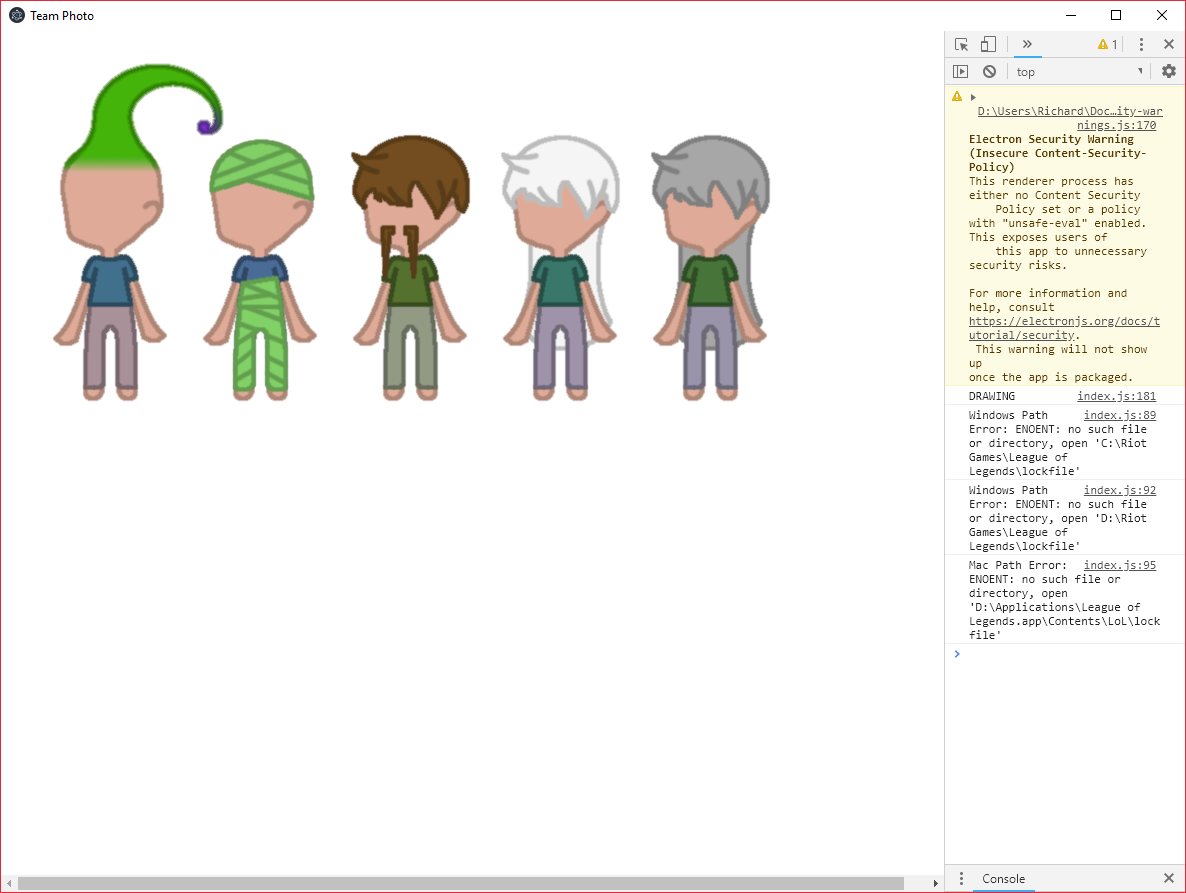
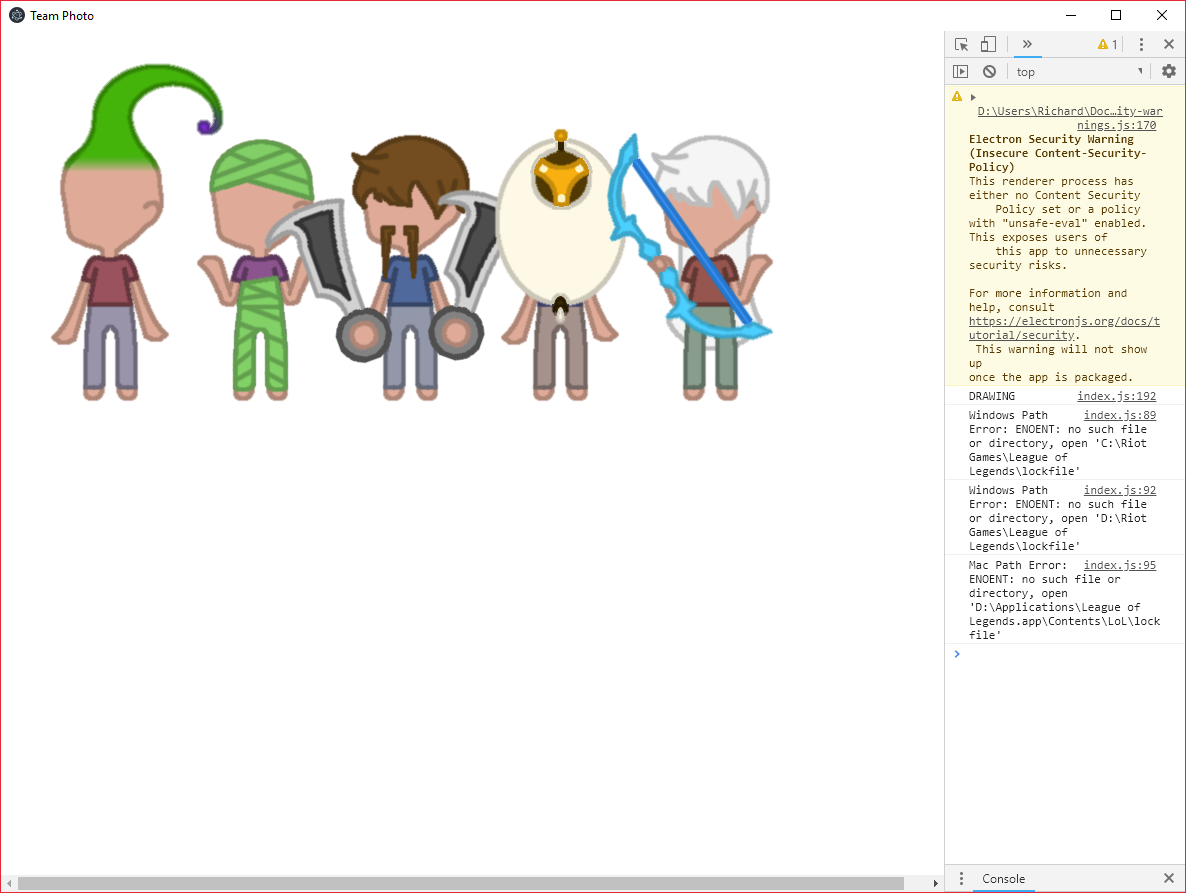
Add bent/shrugging arms
And improve how we do positioning of objects held in the hands.

Changed region(s): [[0.0312, 0.1512, 0.6551, 0.4535]]

diff --git a/electronApp/index.js b/electronApp/index.js
@@ -155,11 +155,14 @@ var longHairImage;
 var shirtImage;
 var leftSleeveImage;
 var leftArmImage;
+var leftArmBentImage;
 var rightSleeveImage;
 var rightArmImage;
+var rightArmBentImage;
 var pantsImage;
 var leftFootImage;
 var rightFootImage;
+var armData;
 
 function prepareImages() {
     headImage = document.getElementById("headImage");
@@ -168,11 +171,19 @@ function prepareImages() {
     shirtImage = document.getElementById("shirtImage");
     leftSleeveImage = document.getElementById("leftSleeveImage");
     leftArmImage = document.getElementById("leftArmImage");
+    leftArmBentImage = document.getElementById("leftArmBentImage");
     rightSleeveImage = document.getElementById("rightSleeveImage");
     rightArmImage = document.getElementById("rightArmImage");
+    rightArmBentImage = document.getElementById("rightArmBentImage");
     pantsImage = document.getElementById("pantsImage");
     leftFootImage = document.getElementById("leftFootImage");
     rightFootImage = document.getElementById("rightFootImage");
+    
+    armData = {"rightArmStraight": {"image": rightArmImage, "translationX": -30, "translationY": 22, "handX": 14, "handY": 60},
+               "leftArmStraight": {"image": leftArmImage, "translationX": 7, "translationY": 20, "handX": 32, "handY": 60},
+               "rightArmBent": {"image": rightArmBentImage, "translationX": -34, "translationY": 0, "handX": 14, "handY": 10, "rotation": 0},
+               "leftArmBent": {"image": leftArmBentImage, "translationX": 7, "translationY": 0, "handX": 35, "handY": 10, "rotation": 0}};
+    
     // uncomment this line to draw right away, instead of waiting for the end game stats to be ready
     draw();
 }
@@ -268,6 +279,26 @@ function drawAddOn(context, addOnDetails) {
     context.restore();
 }
 
+function drawArmAddOn(context, armType, addOnDetails) {
+    armDetails = armData[armType];
+    if (!addOnDetails || !armDetails) {
+        return;
+    }
+    
+    context.save();
+    context.translate(armDetails.handX, armDetails.handY);
+    if (armDetails.rotation) {
+        context.rotate(armDetails.rotation * Math.PI / 180);
+    }
+    context.translate(-addOnDetails.handX, -addOnDetails.handY);
+    if (addOnDetails.drawAsHair) {
+        drawHairWithColor(context, document.getElementById(addOnDetails.id), addOnDetails.hair);
+    } else {
+        context.drawImage(document.getElementById(addOnDetails.id), 0, 0);
+    }
+    context.restore();
+}
+
 function drawCharacter(context, championId) {
     context.save();
     var champion = championData[championId];
@@ -287,7 +318,7 @@ function drawCharacter(context, championId) {
     
     context.drawImage(headImage, 0, 0);
     drawHair(context, hairColor);
-    drawBody(context, champion);
+    drawBody(context, champion, championId);
     if (champion) {
         drawAddOn(context, champion.addOnAfterHead);
     }
@@ -314,62 +345,72 @@ function drawHair(context, hairColor) {
     context.restore();
 }
 
-function drawBody(context, champion) {
+function drawBody(context, champion, championId) {
     context.save();
     context.translate(27, headImage.height - 14);
     var hueRotationDegrees = Math.floor(Math.random() * 360);
     drawPants(context, champion);
-    drawRightSleeve(context, hueRotationDegrees, champion, false);
-    drawLeftSleeve(context, hueRotationDegrees, champion, false);
+    drawRightSleeve(context, hueRotationDegrees, champion, championId, false);
+    drawLeftSleeve(context, hueRotationDegrees, champion, championId, false);
     drawImageWithHueRotation(context, shirtImage, hueRotationDegrees);
     if (champion) {
         drawAddOn(context, champion.addOnAfterShirt);
     }
-    drawRightSleeve(context, hueRotationDegrees, champion, true);
-    drawLeftSleeve(context, hueRotationDegrees, champion, true);
+    drawRightSleeve(context, hueRotationDegrees, champion, championId, true);
+    drawLeftSleeve(context, hueRotationDegrees, champion, championId, true);
     context.restore();
 }
 
-function drawRightSleeve(context, hueRotationDegrees, champion, drawAddOns) {
+function drawRightSleeve(context, hueRotationDegrees, champion, championId, drawAddOns) {
     context.save();
     context.translate(-6, 1);
-    drawRightArm(context, champion, drawAddOns);
+    armType = "rightArmStraight";
+    if (championId < 100) {
+        // TODO: replace with an actual condition
+        armType = "rightArmBent";
+    }
+    drawRightArm(context, champion, armType, drawAddOns);
     if (!drawAddOns) {
         drawImageWithHueRotation(context, rightSleeveImage, hueRotationDegrees);
     }
     context.restore();
 }
 
-function drawRightArm(context, champion, drawAddOns) {
+function drawRightArm(context, champion, armType, drawAddOns) {
     context.save();
-    context.translate(-(rightArmImage.width - 18), rightSleeveImage.height - 8);
+    context.translate(armData[armType].translationX, armData[armType].translationY);
     if (!drawAddOns) {
-        context.drawImage(rightArmImage, 0, 0);
+        context.drawImage(armData[armType].image, 0, 0);
     }
     if (champion && drawAddOns) {
-        drawAddOn(context, champion.addOnAfterRightArm);
+        drawArmAddOn(context, armType, champion.addOnAfterRightArm);
     }
     context.restore();
 }
 
-function drawLeftSleeve(context, hueRotationDegrees, champion, drawAddOns) {
+function drawLeftSleeve(context, hueRotationDegrees, champion, championId, drawAddOns) {
     context.save();
     context.translate(shirtImage.width - 17, 0);
-    drawLeftArm(context, champion, drawAddOns);
+    armType = "leftArmStraight";
+    if (championId < 100) {
+        // TODO: replace with an actual condition
+        armType = "leftArmBent";
+    }
+    drawLeftArm(context, champion, armType, drawAddOns);
     if (!drawAddOns) {
         drawImageWithHueRotation(context, leftSleeveImage, hueRotationDegrees);
     }
     context.restore();
 }
 
-function drawLeftArm(context, champion, drawAddOns) {
+function drawLeftArm(context, champion, armType, drawAddOns) {
     context.save();
-    context.translate(leftSleeveImage.width - 18, leftSleeveImage.height - 10);
+    context.translate(armData[armType].translationX, armData[armType].translationY);
     if (!drawAddOns) {
-        context.drawImage(leftArmImage, 0, 0);
+        context.drawImage(armData[armType].image, 0, 0);
     }
     if (champion && drawAddOns) {
-        drawAddOn(context, champion.addOnAfterLeftArm);
+        drawArmAddOn(context, armType, champion.addOnAfterLeftArm);
     }
     context.restore();
 }

diff --git a/electronApp/championData.js b/electronApp/championData.js
@@ -1,7 +1,7 @@
 const championData = {
     "32": /* Amumu */ {"hair": "none", "addOnAfterHead": {"id": "amumuHead", "translationX": -1, "translationY": -1}, "addOnAfterShirt": {"id": "amumuShirt", "translationX": -1, "translationY": 21}, "addOnAfterPants": {"id": "amumuPants", "translationX": -1, "translationY": 2}},
-    "22": /* Ashe */ {"hair": "white", "longHair": true, "addOnAfterRightArm": {"id": "asheRightHand", "translationX": -40, "translationY": -75}},
+    "22": /* Ashe */ {"hair": "white", "longHair": true, "addOnAfterRightArm": {"id": "asheRightHand", "handX": 54, "handY": 132}},
     "432": /* Bard */ {"hair": "none", "addOnAfterHead": {"id": "bardHead", "translationX": -15, "translationY": -31}},
-    "119": /* Draven */ {"hair": "brown", "longHair": false, "addOnAfterHead": {"id": "dravenHead", "translationX": 20, "translationY": 85, "drawAsHair": true, "hair": "brown"}, "addOnAfterRightArm": {"id": "dravenRightHand", "translationX": -85, "translationY": -85}, "addOnAfterLeftArm": {"id": "dravenLeftHand", "translationX": 0, "translationY": -85}},
+    "119": /* Draven */ {"hair": "brown", "longHair": false, "addOnAfterHead": {"id": "dravenHead", "translationX": 20, "translationY": 85, "drawAsHair": true, "hair": "brown"}, "addOnAfterRightArm": {"id": "dravenRightHand", "handX": 101, "handY": 140}, "addOnAfterLeftArm": {"id": "dravenLeftHand", "handX": 29, "handY": 145}},
     "141": /* Zac */ {"hair": "none", "expression": "none", "addOnAfterHead": {"id": "zacHead", "translationX": 1, "translationY": -76}},
 };

diff --git a/electronApp/index.html b/electronApp/index.html
@@ -12,7 +12,9 @@
     <img id="shirtImage" src="img/newShirt.png" hidden="true">
     <img id="leftSleeveImage" src="img/newLeftSleeve.png" hidden="true">
     <img id="leftArmImage" src="img/newLeftArm.png" hidden="true">
+    <img id="leftArmBentImage" src="img/newLeftArmBent.png" hidden="true">
     <img id="rightSleeveImage" src="img/newRightSleeve.png" hidden="true">
+    <img id="rightArmBentImage" src="img/newRightArmBent.png" hidden="true">
     <img id="rightArmImage" src="img/newRightArm.png" hidden="true">
     <img id="pantsImage" src="img/newPants.png" hidden="true">
     <img id="leftFootImage" src="img/newLeftFoot.png" hidden="true">
